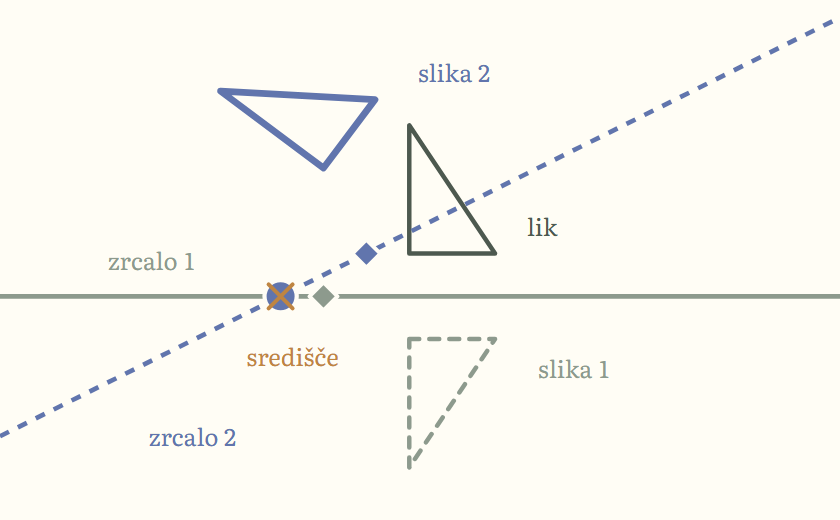
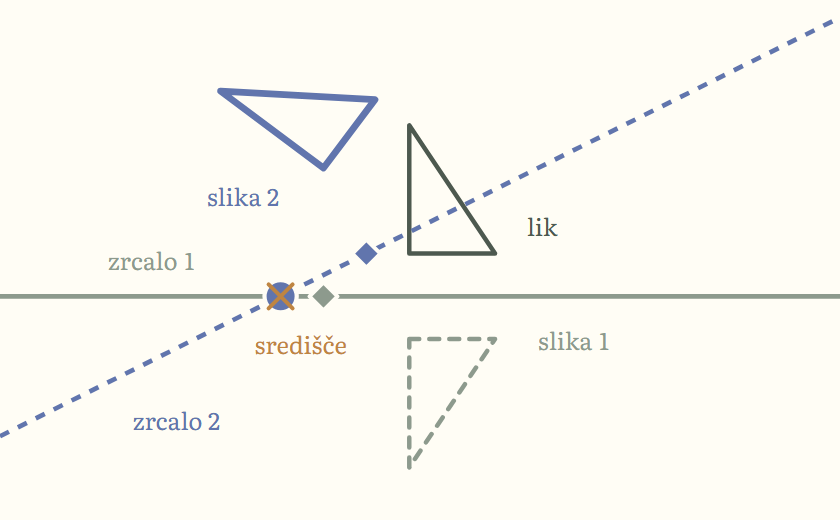
fix: isometries point names placed first; cards recaptured without tick numbers
With tick numbers hidden on the cards, "slika 1" took the clear spot
under the two-mirrors centre and "središče" went 200 px away. Owned
point names now take their spots before shape captions (test red at
40 px > 34 with axes "Brez"). All five isometries cards recaptured with
the new capture (dilation "središče" 130 -> ~90 px; two-mirrors and
rosette names beside their markers); analytic-lines PNGs byte-identical,
manifest fingerprint only.

Claude-Session: https://claude.ai/code/session_01UfEZWLJGsUurN5HP5LTHtX

diff --git a/src/graphs/isometry/IsometryLabels.test.tsx b/src/graphs/isometry/IsometryLabels.test.tsx
@@ -6,6 +6,7 @@ import {installBoardShims} from '../base/realGraphTestHarness';
 import {setLanguage} from '../../localization';
 import {sampleLine, type PxBox} from '../legend/boardLabelPlacement';
 import {CLASSIFY_EXAMPLES, DEFAULT_ISOMETRY_STATE, type IsometryState} from '../../isometry/isometryModel';
+import {AxisSelect} from '../base/DisplaySettings';
 import {IsometryGraph} from './IsometryGraph';
 
 beforeAll(installBoardShims);
@@ -157,6 +158,18 @@ describe('IsometryGraph name ownership and the coordinate infobox', () => {
         const r = centreGap(SCENES.rosette);
         expect(r.gap).toBeLessThanOrEqual(34);
         expect(r.owned).toBe(true);
+    });
+
+    it('the centre name of the two-mirrors card scene with the axis set to "Brez" sits beside the cross, not behind the image name', () => {
+        const graph = new Probe();
+        render(<MemoryRouter><GraphHost create={() => graph}/></MemoryRouter>);
+        act(() => { graph.setAxisSelect(AxisSelect.NONE); });
+        act(() => { graph.setState(SCENES.twoMirrors); });
+        act(() => { graph.liveBoard().update(); });
+        act(() => { graph.liveBoard().update(); });
+        const r = centreGap({}, graph);
+        expect(r.owned).toBe(true);
+        expect(r.gap, `the name is ${Math.round(r.gap)} px from its marker`).toBeLessThanOrEqual(34);
     });
 
     it('the centre name of a classified rotation is nearest to its own cross and no farther than before the pass (the figure is crowded there)', () => {

diff --git a/src/graphs/isometry/IsometryGraph.tsx b/src/graphs/isometry/IsometryGraph.tsx
@@ -419,6 +419,9 @@ export class IsometryGraph extends BaseGraph<IsometryGraphState, IsometryState> 
             const [first, ...rest] = c.anchors().filter(a => Number.isFinite(a[0]) && Number.isFinite(a[1])).map(a => toPx(a[0], a[1]));
             if (first) items.push({id: c.id, ax: first[0], ay: first[1], alts: rest, w: text.length * font * 0.55 + 8, h: font + 7});
         }
+        // Names of points are placed first, so a caption of a shape (which has room anywhere along its outline) cannot take the one clear spot
+        // beside a point (the two-mirrors card: "slika 1" took the spot under the centre and "središče" went 200 px away).
+        items.sort((a, b) => Number(ownedIds.has(b.id)) - Number(ownedIds.has(a.id)));
         const ticks = this.tickNumberBoxes(toPx, left, top, width, height);
         let boxes = placeLpLabels(items, {width, height, markers, samples, strips: [], blocks: ticks});
         // A tick number costs a spot more than two texts on each other (the weights of `placeLpLabels`), so where the tick numbers crowd the texts
